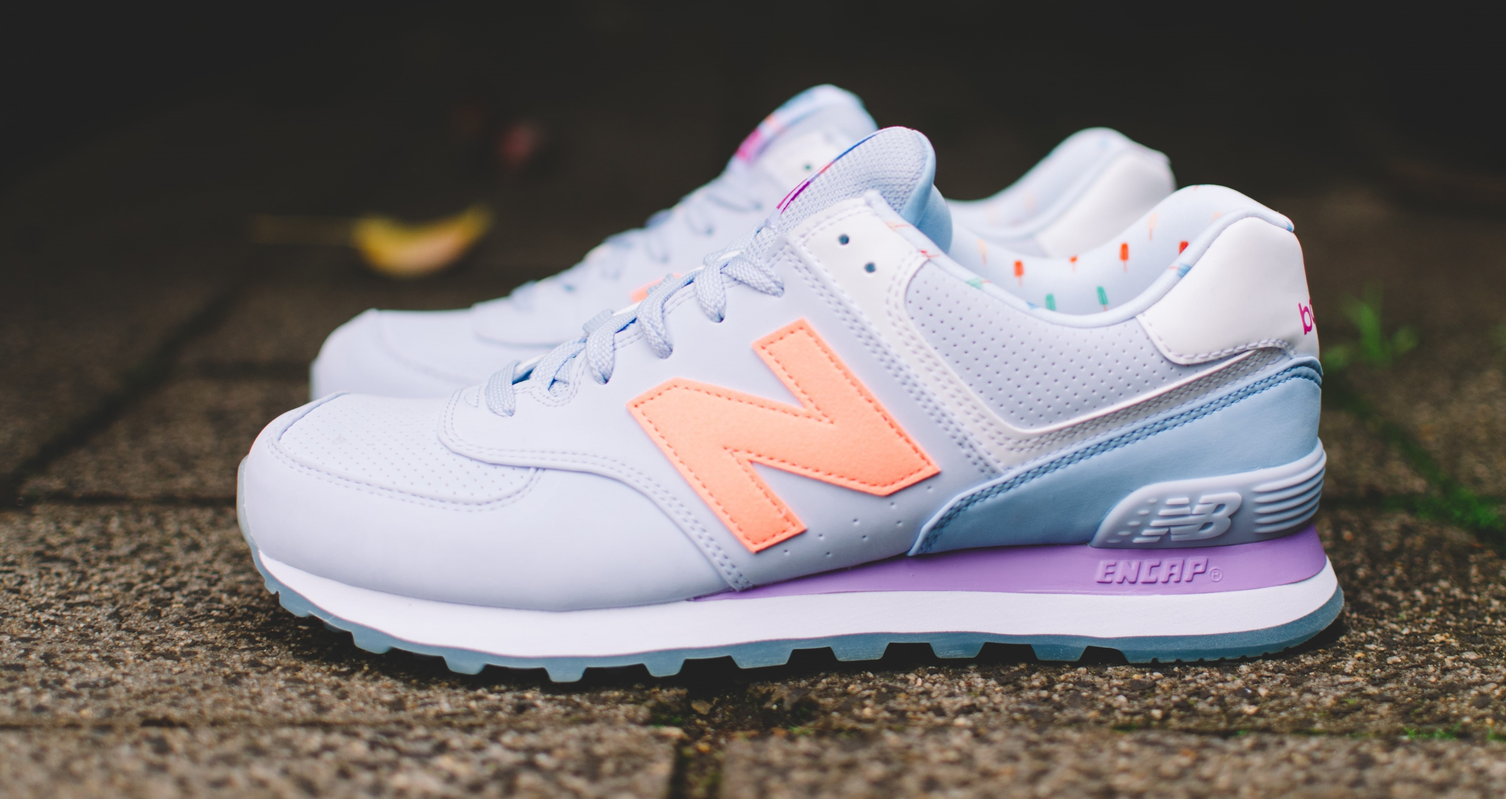
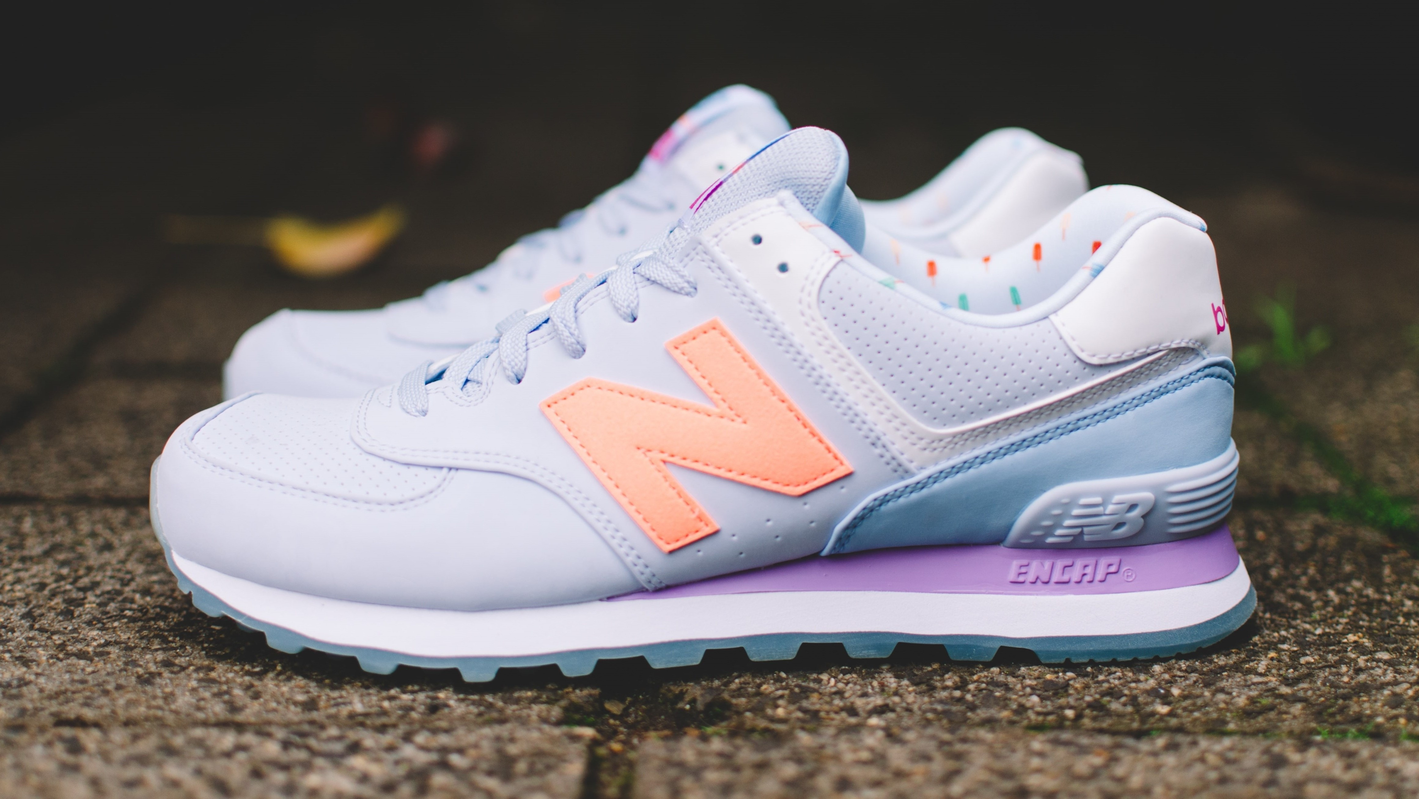
height and arrow adjustments

Changed region(s): [[0.0, 0.0929, 0.9994, 1.0], [0.2811, 0.1549, 0.3748, 0.2168]]

diff --git a/src/components/home/ShoeCarousel.jsx b/src/components/home/ShoeCarousel.jsx
@@ -12,6 +12,7 @@ export default function ShoeCarousel() {
       <Carousel
         autoPlay
         infiniteLoop
+        dynamicHeight
         showThumbs={false}
         renderArrowPrev={(onClickHandler, hasPrev) =>
           hasPrev && (
@@ -38,19 +39,19 @@ export default function ShoeCarousel() {
           )
         }
       >
-        <div>
+        <div className="h-[680px]">
           <img loading="eager" src={NikeCarousel} alt="Nike" />
         </div>
-        <div>
+        <div className="h-[680px]">
           <img loading="lazy" src={ConverseCarousel} alt="Converse" />
         </div>
-        <div>
+        <div className="h-[680px]">
           <img loading="lazy" src={AdidasCarousel} alt="Adidas" />
         </div>
-        <div>
+        <div className="h-[680px]">
           <img loading="lazy" src={NBCarousel} alt="New Balance" />
         </div>
-        <div>
+        <div className="h-[680px]">
           <img loading="lazy" src={VansCarousel} alt="Vans" />
         </div>
       </Carousel>

diff --git a/src/index.css b/src/index.css
@@ -104,11 +104,6 @@ body {
   display: none;
 }
 
-/* Set a fixed height for the carousel container */
-.carousel {
-  height: 680px; /* Adjust the height as needed */
-}
-
 .prev-arrow {
   left: 3rem; /* Adjust position as needed */
   z-index: 2;
@@ -117,6 +112,36 @@ body {
 .next-arrow {
   right: 3rem; /* Adjust position as needed */
   z-index: 2;
+}
+
+@media (max-width: 1150px) {
+  .prev-arrow {
+    left: 2rem; /* Adjust position as needed */
+  }
+
+  .next-arrow {
+    right: 2rem; /* Adjust position as needed */
+  }
+}
+
+@media (max-width: 850px) {
+  .prev-arrow {
+    left: 1.5rem; /* Adjust position as needed */
+  }
+
+  .next-arrow {
+    right: 1.5rem; /* Adjust position as needed */
+  }
+}
+
+@media (max-width: 750px) {
+  .prev-arrow {
+    left: 1rem; /* Adjust position as needed */
+  }
+
+  .next-arrow {
+    right: 1rem; /* Adjust position as needed */
+  }
 }
 
 /* Custom Legend Label */
